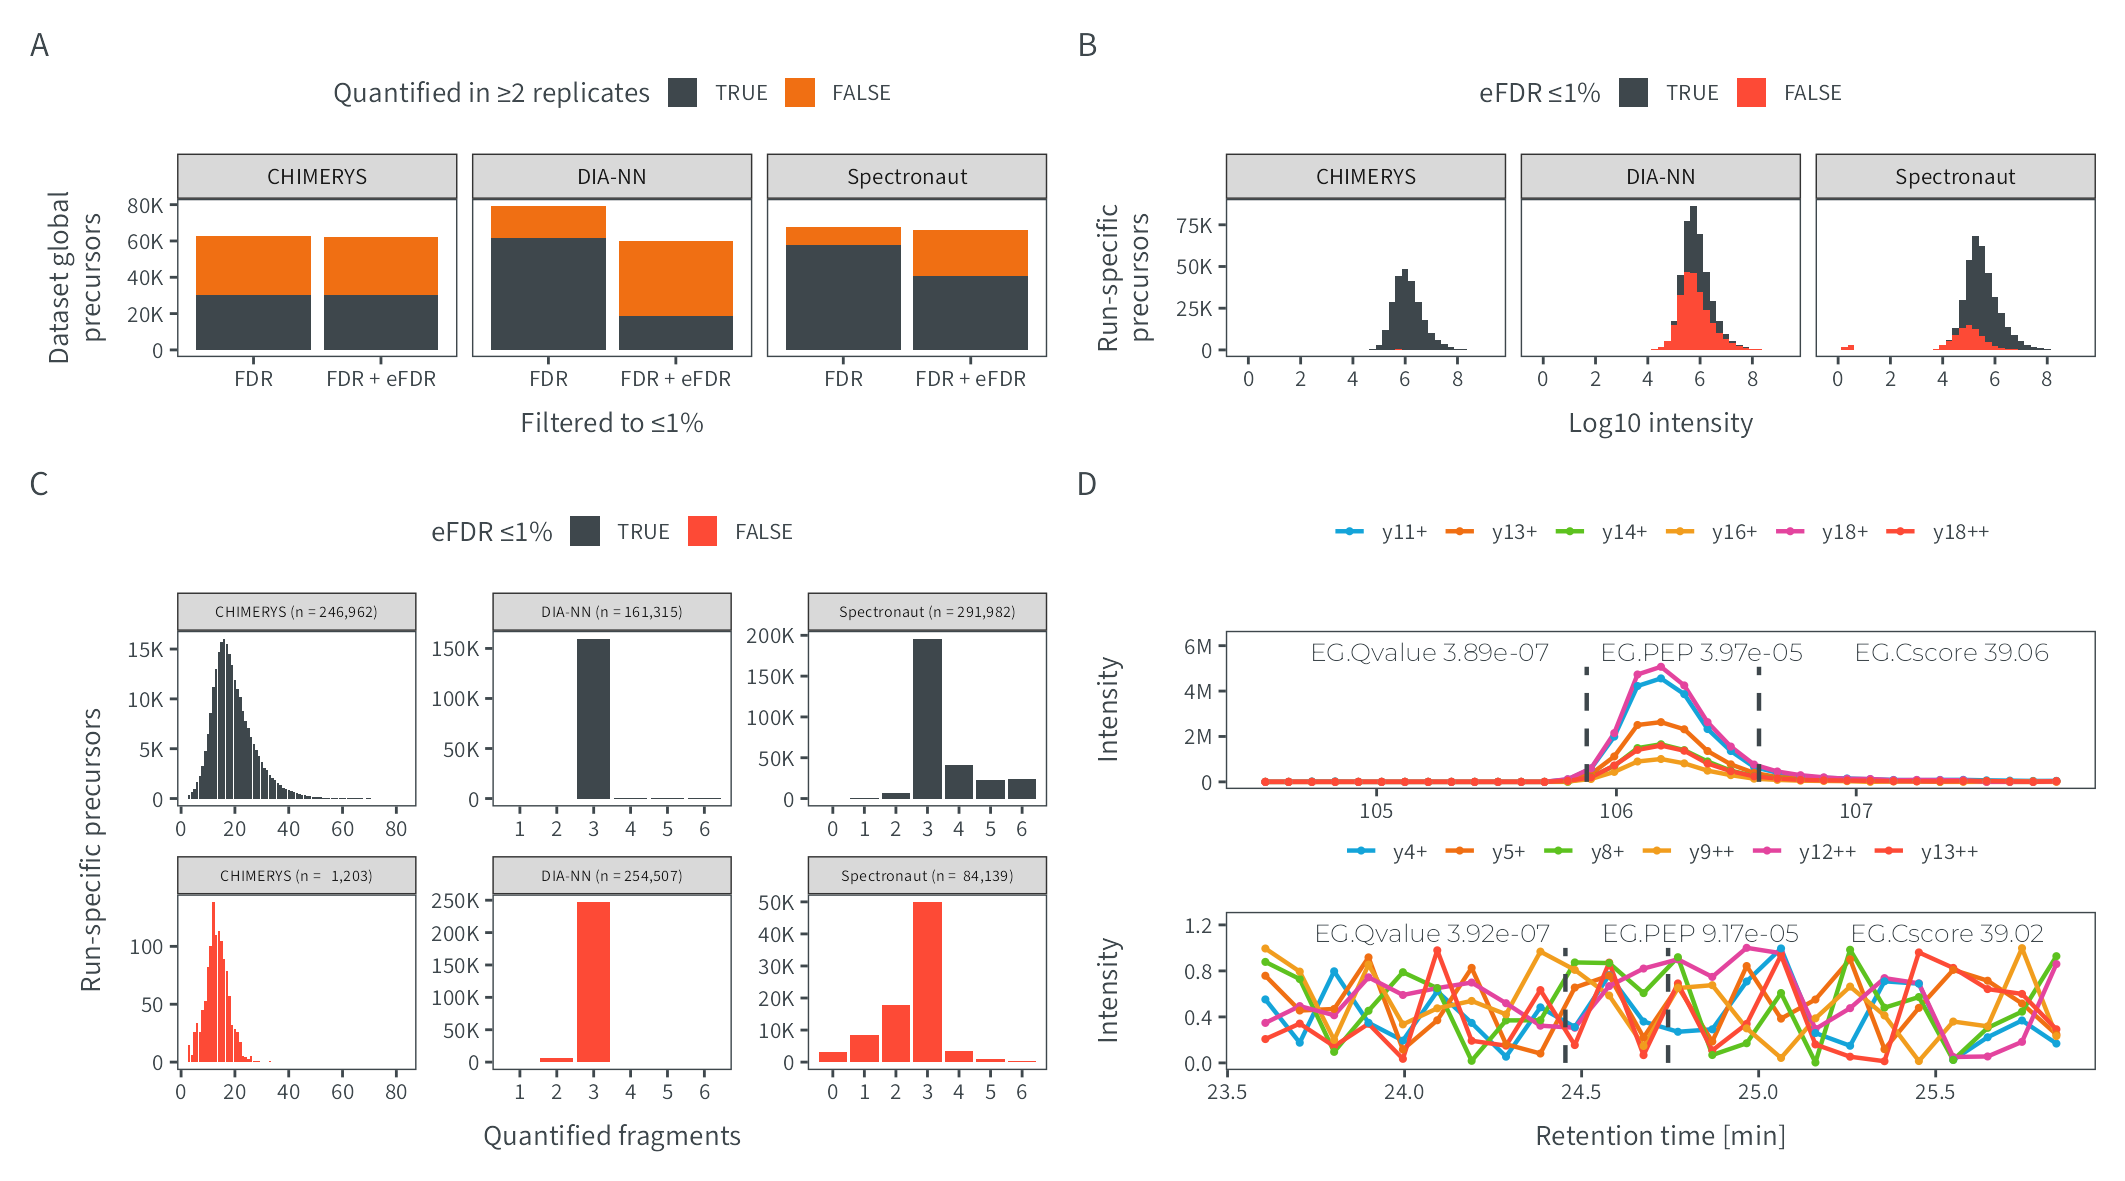
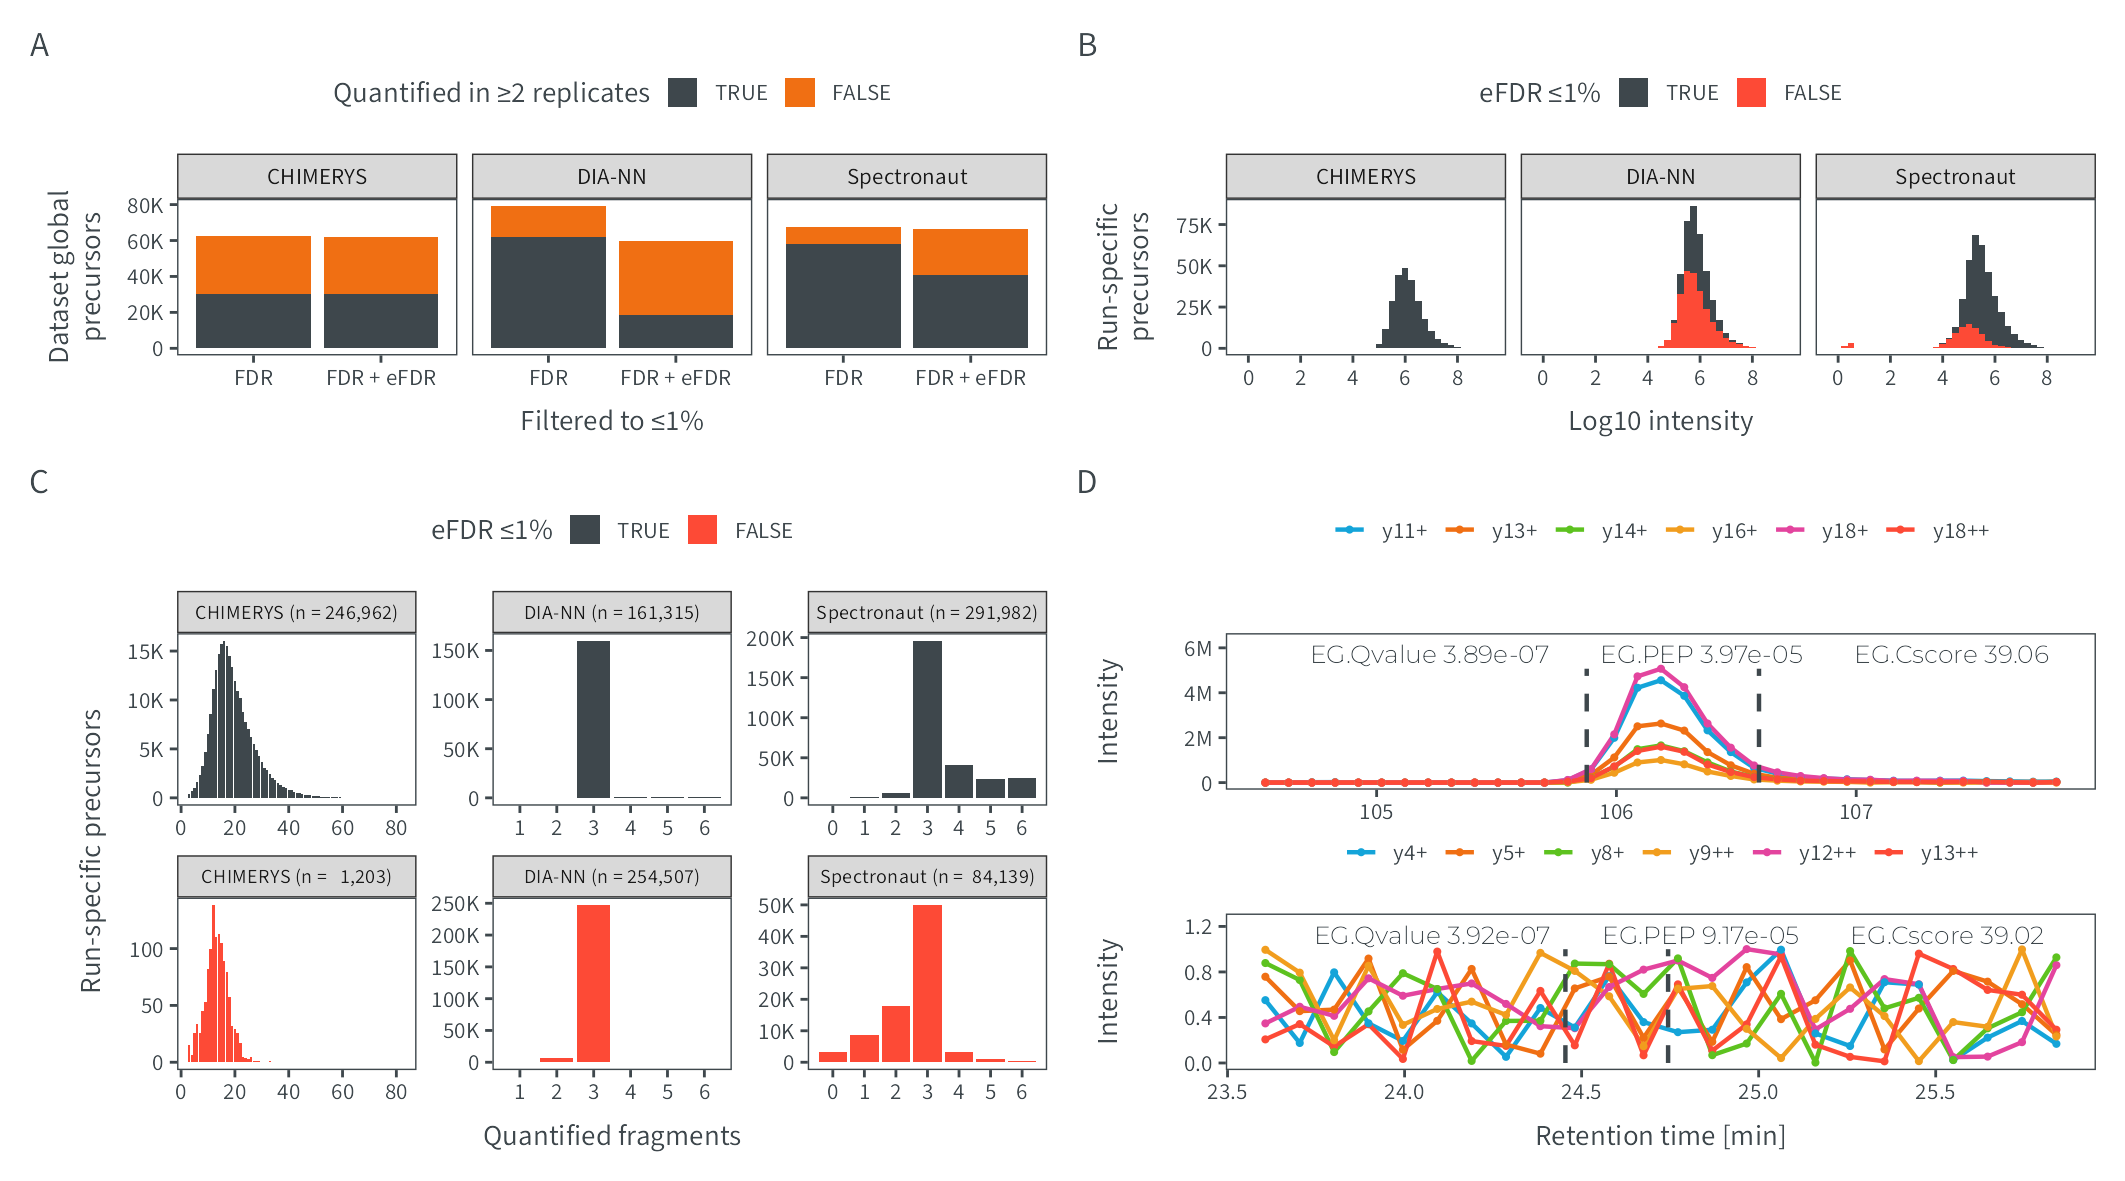
bdb0cf3 increased min font size

diff --git a/figure-3/README.md b/figure-3/README.md
@@ -1,6 +1,6 @@
 # Figure 3
 MSAID
-2024-12-16
+2024-12-17
 
 - [Setup](#setup)
 - [Data](#data)
@@ -180,7 +180,7 @@ p_fragQuan <- ggplot(dtFragCount, aes(x=FRAGS, y=N, fill=isEfdr)) +
   scale_y_continuous(labels = label_number(scale_cut = cut_short_scale())) +
   scale_x_continuous(breaks = pretty_breaks(n = 6)) +
   xlab("Quantified fragments") + ylab("Run-specific precursors") +
-  theme(legend.position = "top", strip.text = element_text(size=4))
+  theme(legend.position = "top", strip.text = element_text(size=5))
 ```
 
 ## XICs
